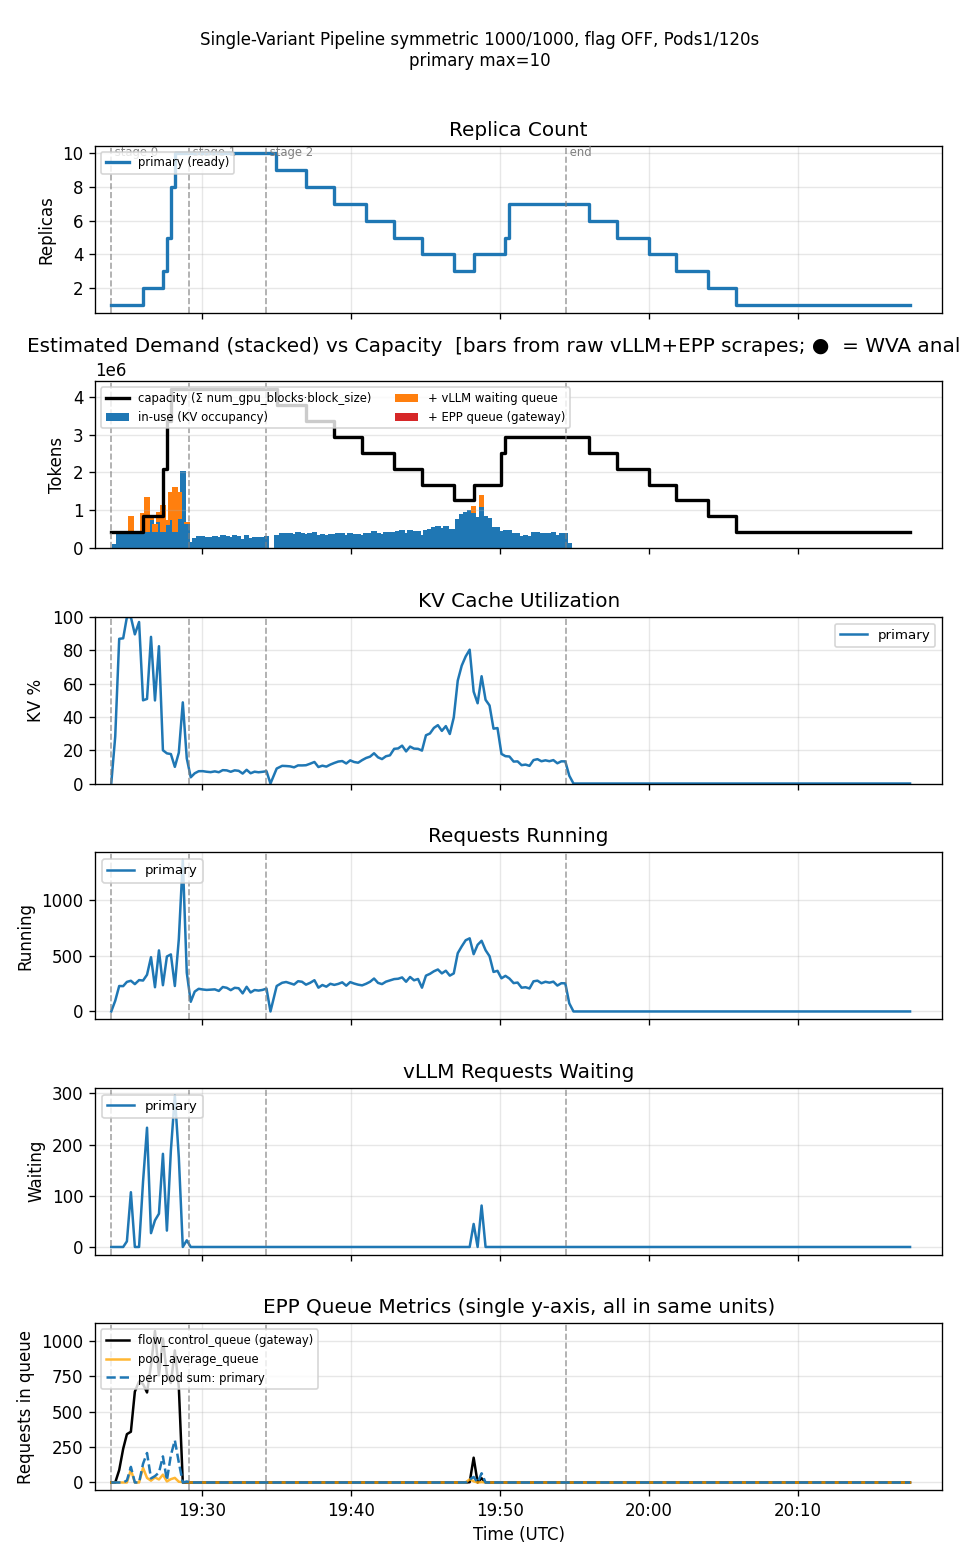
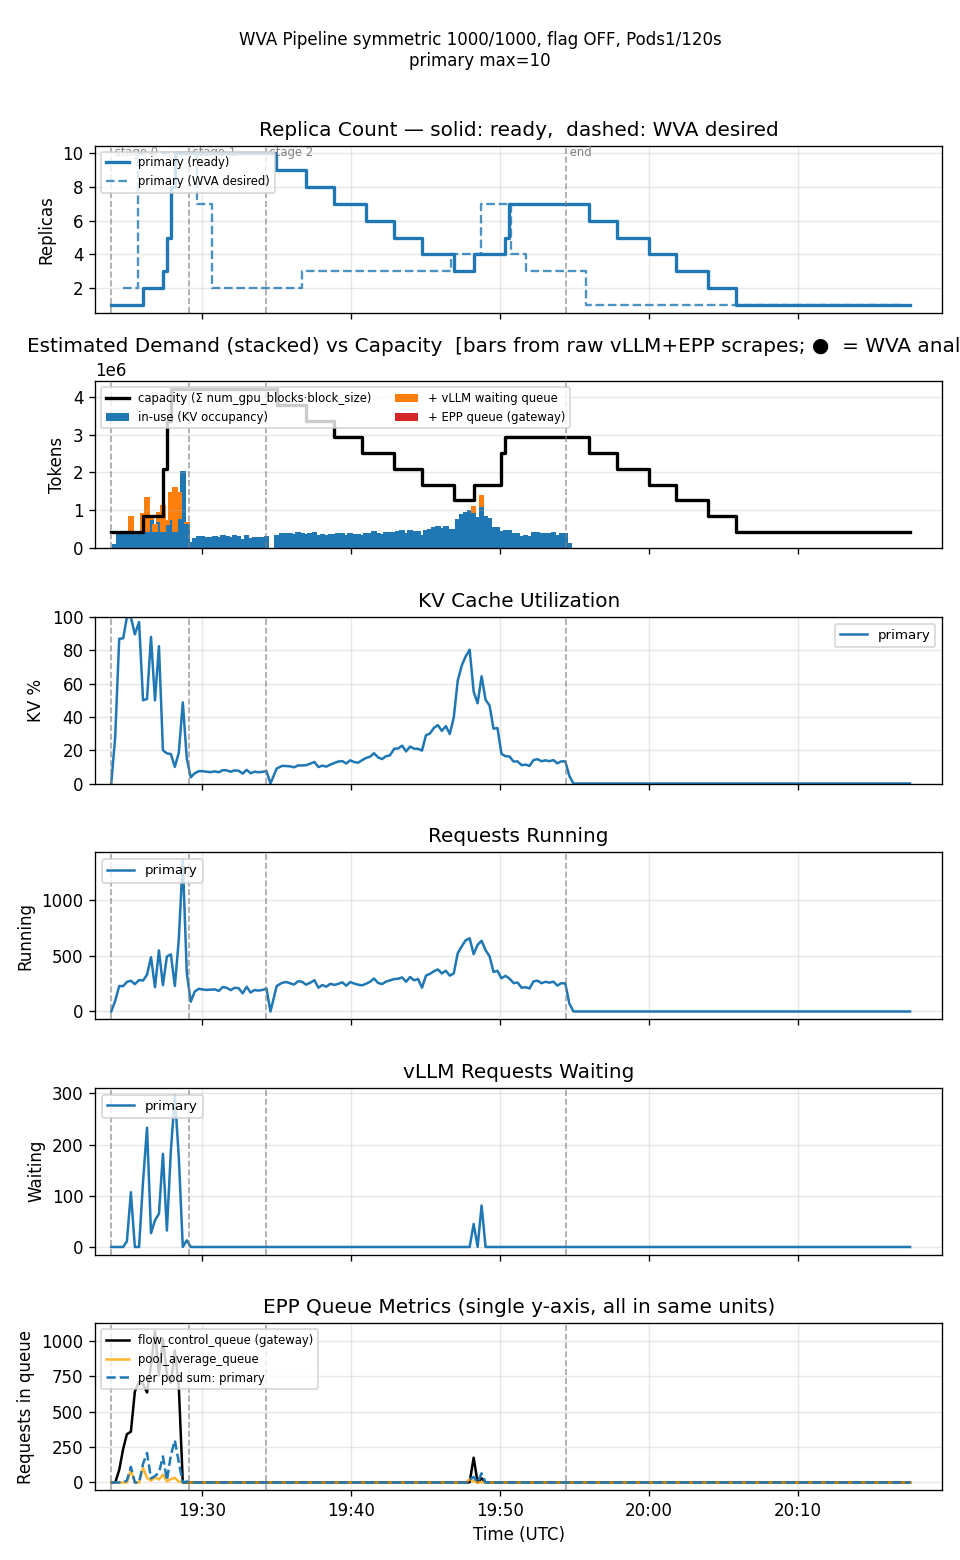
docs(comparison): restore WVA-desired overlay for OFF leg, explain x-axis tail
wva_target_timeseries.json came back empty due to a transient kubectl
auth failure at analysis time (dump script doesn't surface the
failure). Controller pod hadn't restarted since the run, so re-running
the dump recovered it. Also explain why both plots' x-axis extends
~23min past the "end" stage marker: that line marks when Poisson
arrivals stop, not when in-flight requests + the metered scale-down
drain finish.

diff --git a/comparison-symmetric1000x1000-pods1120s-20260801/comparison.md b/comparison-symmetric1000x1000-pods1120s-20260801/comparison.md
@@ -86,6 +86,21 @@ fixed for future runs: the `ServiceMonitor`'s `tlsConfig.serverName` was hardcod
 `wva-system` instead of the actual `biran` namespace, failing TLS verification on every scrape
 attempt — see the feedback note on this bug). Not recoverable for these two runs after the fact.
 
+Dashed gray vertical lines mark the Poisson load-profile's stage transitions and the point where
+arrivals stop (measured elapsed seconds per stage, not nominal) — **not** where all activity
+stops. Both graphs' x-axis extends well past that "end" line: in-flight requests (up to ~1000
+output tokens each) keep decoding, and the `Pods1/120s` policy metering the descent from a peak
+of 7-10 replicas back to 1 alone takes 12+ minutes. `harness_stop` lands 23 minutes after the
+arrival schedule's nominal end for both legs — that tail is genuine data, not a rendering
+artifact.
+
+The OFF run's `wva_target_timeseries.json` (WVA-desired dashed overlay) initially came back
+empty (0 snapshots) due to a transient `kubectl` auth failure at the exact moment
+`post_run_analyze.sh` ran (the same session-token expiry hit later while querying Thanos) —
+the dump script doesn't surface that failure, it just silently writes an empty result. Recovered
+by re-running the dump: the controller pod hadn't been restarted since the run, so the log
+history was still live-queryable.
+
 ### ON — one ramp, one long hold, one drain
 
 ![WVA flag ON pipeline](img/wva_on_pipeline.png)
